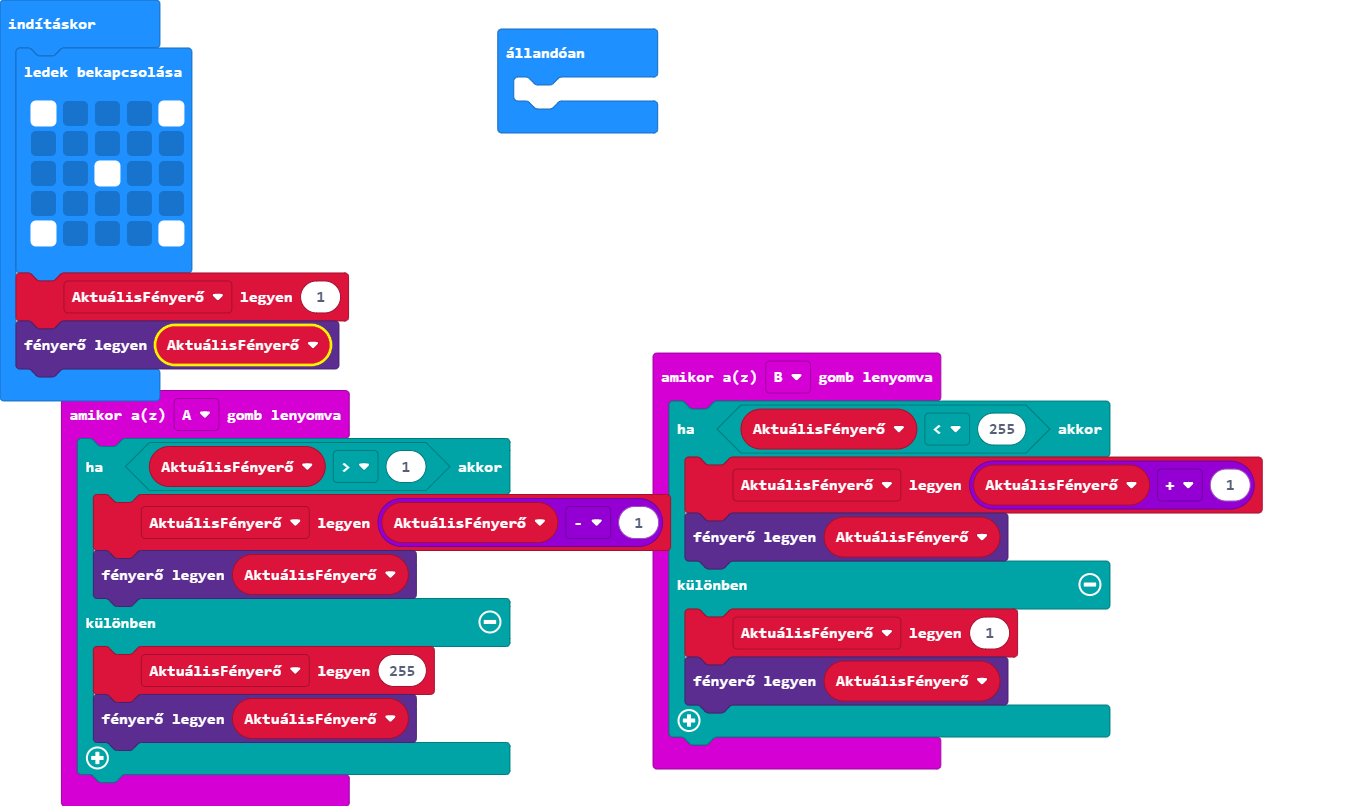
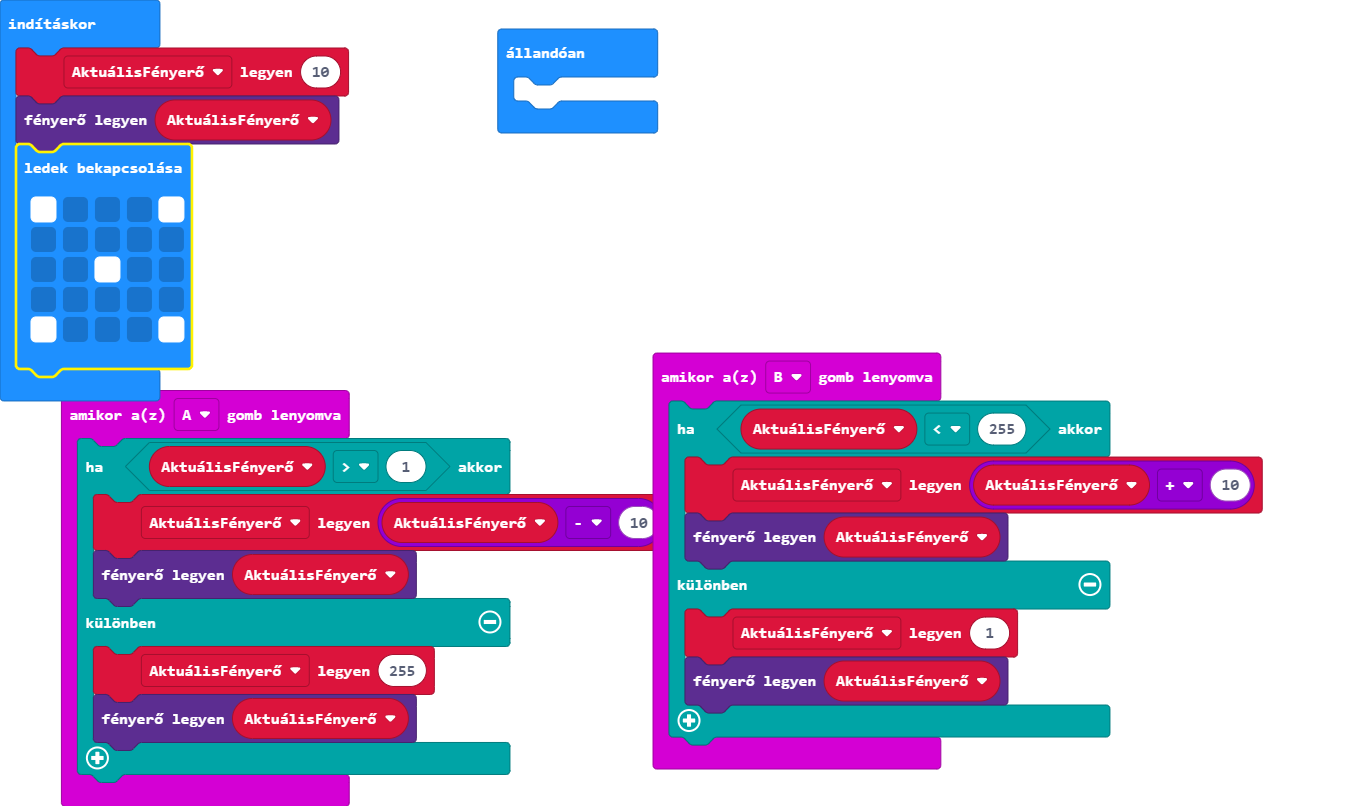
Update main.blocks, main.ts

Changed region(s): [[0.0, 0.031, 0.2767, 0.4653], [0.4612, 0.5893, 0.4919, 0.6824], [0.8917, 0.5893, 0.9224, 0.6203]]

diff --git a/main.ts b/main.ts
@@ -1,6 +1,6 @@
 input.onButtonPressed(Button.A, function () {
     if (AktuálisFényerő > 1) {
-        AktuálisFényerő = AktuálisFényerő - 1
+        AktuálisFényerő = AktuálisFényerő - 10
         led.setBrightness(AktuálisFényerő)
     } else {
         AktuálisFényerő = 255
@@ -9,7 +9,7 @@ input.onButtonPressed(Button.A, function () {
 })
 input.onButtonPressed(Button.B, function () {
     if (AktuálisFényerő < 255) {
-        AktuálisFényerő = AktuálisFényerő + 1
+        AktuálisFényerő = AktuálisFényerő + 10
         led.setBrightness(AktuálisFényerő)
     } else {
         AktuálisFényerő = 1
@@ -17,6 +17,8 @@ input.onButtonPressed(Button.B, function () {
     }
 })
 let AktuálisFényerő = 0
+AktuálisFényerő = 10
+led.setBrightness(AktuálisFényerő)
 basic.showLeds(`
     # . . . #
     . . . . .
@@ -24,8 +26,6 @@ basic.showLeds(`
     . . . . .
     # . . . #
     `)
-AktuálisFényerő = 1
-led.setBrightness(AktuálisFényerő)
 basic.forever(function () {
 	
 })
